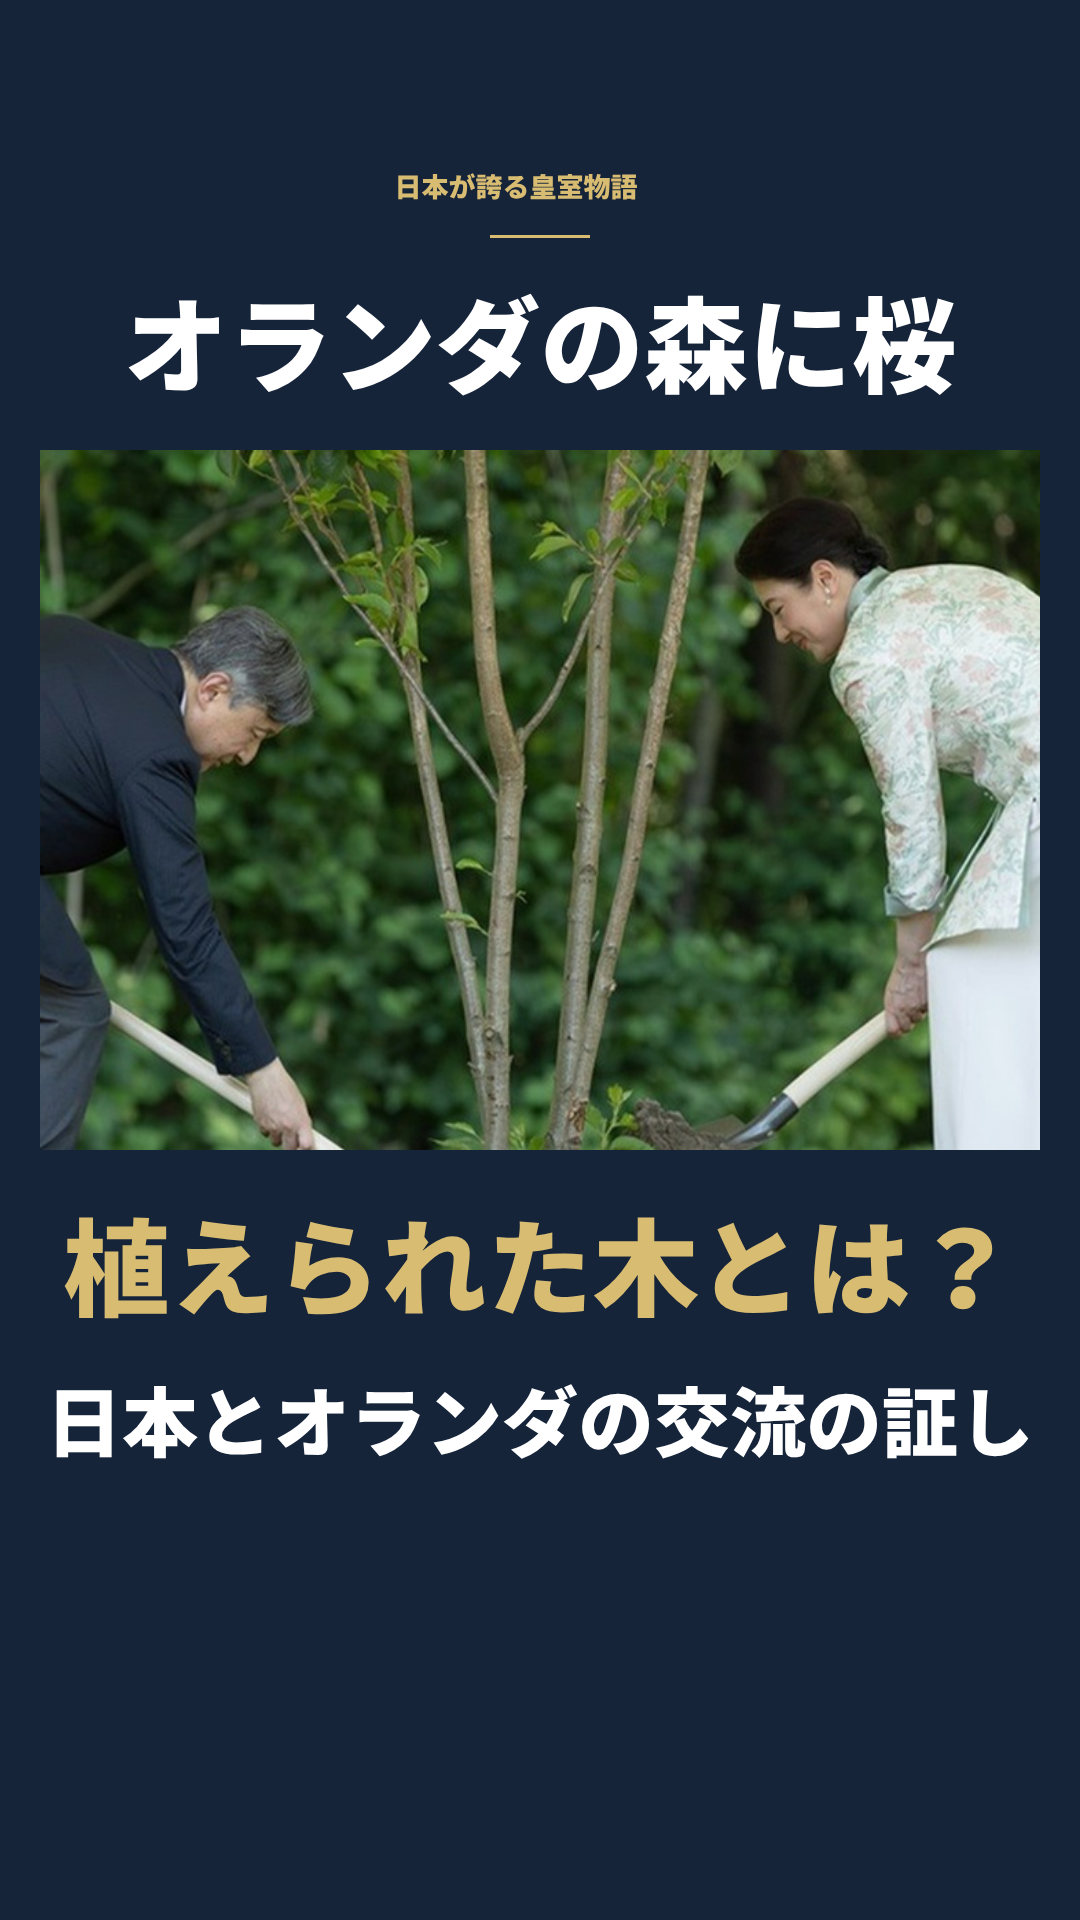
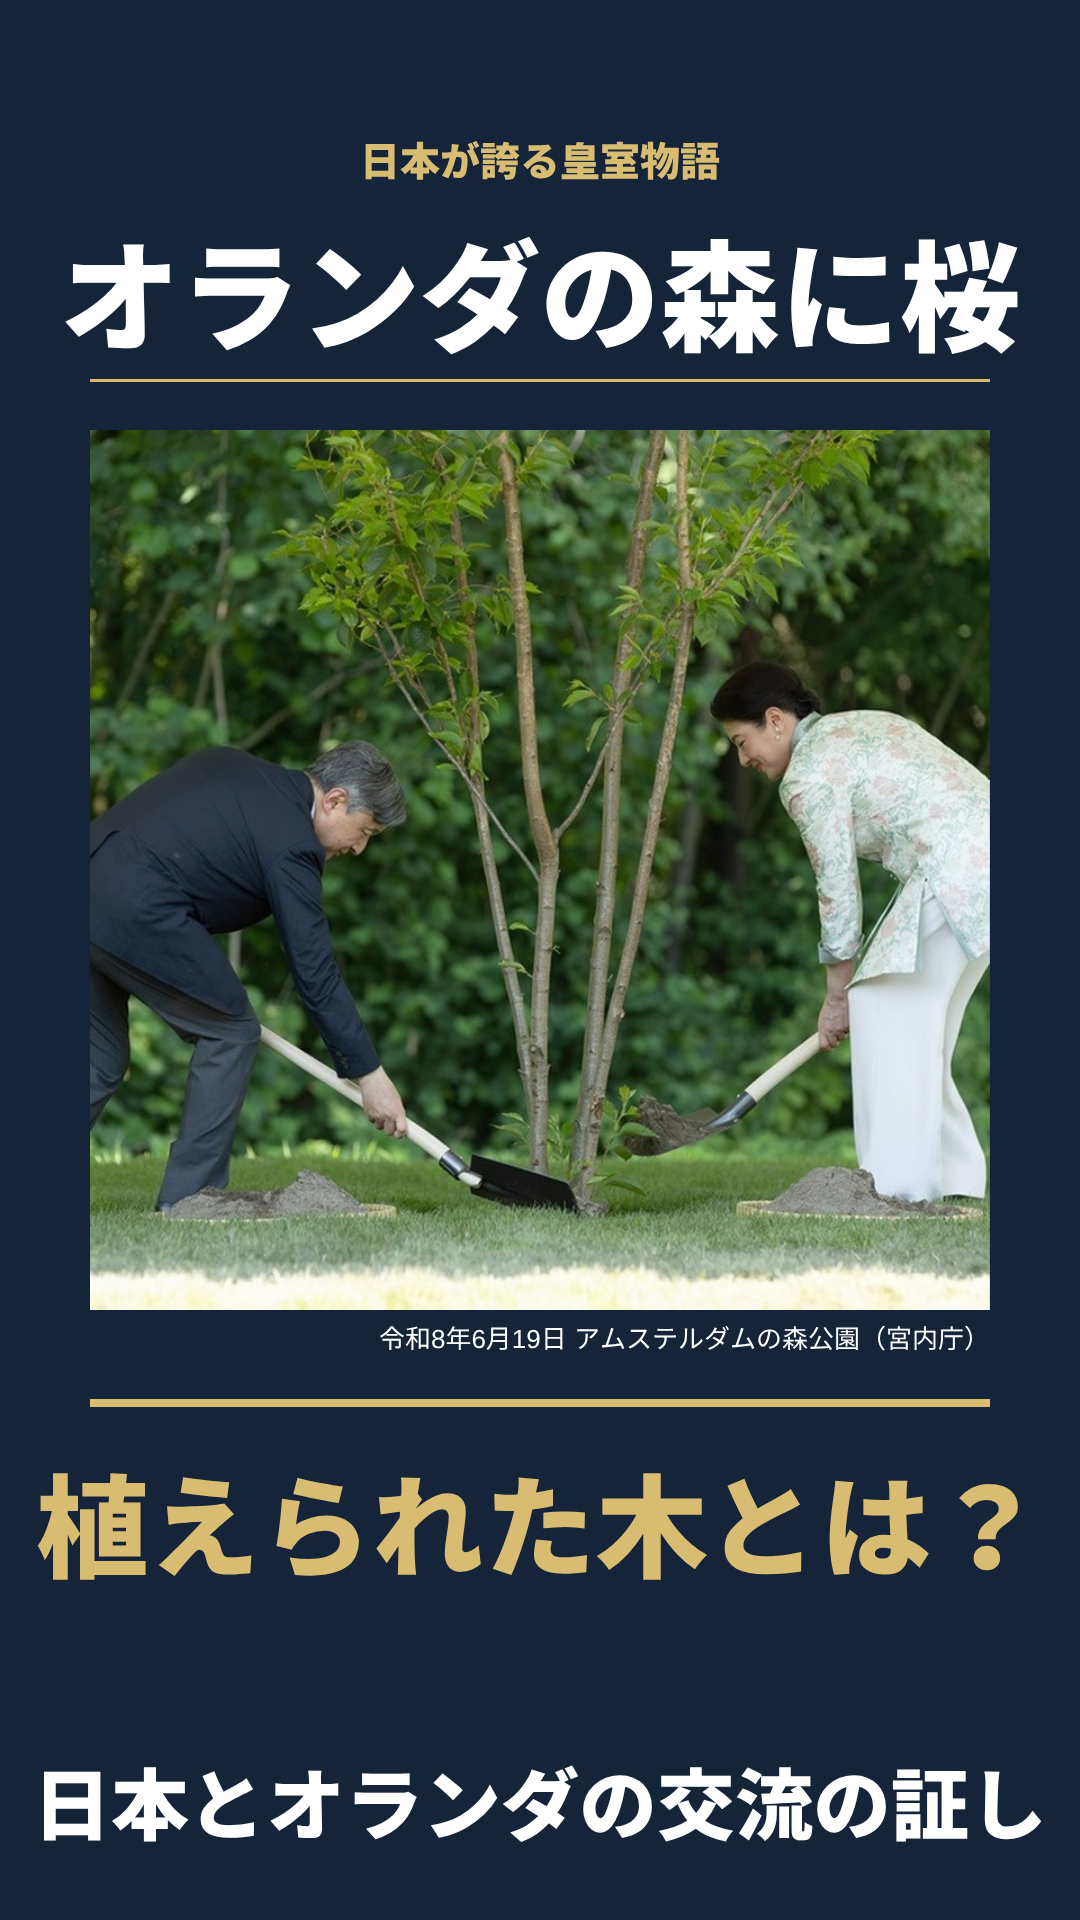
N2・N3: 表紙2パターン(A・B)
Claude-Session: https://claude.ai/code/session_01BJaPieHBuTRAAQkfULpzEX

diff --git a/projects/KB-20261123-03/frames_check.md b/projects/KB-20261123-03/frames_check.md
@@ -1,0 +1,33 @@
+# コマ点検 KB-20261123-03(縦型・54.17秒・15カット・2026-11-24「1本=1場面」版)
+
+点検したもの: `bin/kabu run frames` の sheet_1.jpg・sheet_2.jpg(0.5秒ごと。report.json は 1625コマ・issues 0件)、各カットの代表コマ16枚(動画から抜き出し)、scenes.json の match、output/shots.json、ledger.csv、focus.json、assets の md5、元写真(A008・A032・A034・A074・A105)。
+判定: **直しが2件(01-2・05-4)、要確認が4件。** ほかは問題なし。
+
+## 直しが必要
+1. **01-2(3.0〜6.8秒 A008)王妃陛下のお顔が右端で切れている。** 人物名は「天皇皇后両陛下・ベルギー国王王妃両陛下」だが、枠いっぱいの切り抜きと「右へパン」で、右端の王妃陛下がカットの間ずっと半分しか写らない(元写真は4人とも入っている)。第4章「全員が入らない時だけ全体を横幅いっぱいに置く」に当たる。
+   - 直し方: A019 と同じく写真全体を横幅いっぱいに置く。または focus を 0.55→0.52 にし、動きを「ゆっくり拡大(ごく小さく)」にして4人とも枠に入れる(4人の幅が写真の約87%あり余裕が少ないので、全体を置く方が確実)。
+2. **05-4(45.1〜49.5秒 A034)言葉と画像が合っていない。** ナレーションは「日本の塔と温室のどちらですか？」だが、写真は大使公邸での在留邦人代表ご接見(塔・温室・ラーケン宮のどれも写っていない別の行事)。第4-3章の①〜③のどれにも当たらない(③は「その行事の写真」)。
+   - 直し案A(勧める): 問いを写真に合わせる。05-4 に A029(庭園・日本の塔の前の4人)を移し、問いを「日本の塔」を含む言い方のままにする。空いた 03-1「庭園を歩かれました」には、6/25 のラーケン宮で別の写真が台帳にないため、台本係に写真探しを依頼(宮内庁 6/25 のページに別カットがあるか)。
+   - 直し案B: 05-4 を2カットに分け、塔と温室の別ファイルの写真(Commons・説明文確認済みのもの)を出す。ただし人物の割合が今の78.3%から70.1%に下がり、75%を割る。04-2(A115 庭園の芝生 3.1秒)を人物の写真に替えれば75.8%で足りる。
+   - 写真を替えない場合でも: 元写真には天皇陛下が左端に写っている。focus を 0.27→0.40、動きをパンなしにすれば両陛下とも枠に入り、人物名を台帳どおり「天皇皇后両陛下」に戻せる(一致の弱さは残る)。
+
+## 要確認
+- **01-1(0〜3.0秒 A032)** 天皇陛下が左端で、後ろ寄りの横顔。お顔は見えるが一部が枠にかかる。元写真でも左端なのでこれ以上は寄せられない。人物名「天皇皇后両陛下」は可。「お別れの日」に同じ6/25の別行事(ベルギー人ご接見)の写真で、撮影日・行事の表示あり。冒頭の一枚としては許容と見たが、04-1 の A030 と入れ替える手もある。
+- **05-3(40.3〜45.1秒 A018→A019)** 「お住まいの庭でのご散策は」に、6/23 晩餐会(室内・正装)の写真。場所(ラーケン宮=お住まい)は合うが「庭」「ご散策」は写っていない。撮影日の表示あり。A019 は10人の集合写真で両陛下のお顔が小さい(2.4秒)。
+- **03-3(20.2〜24.7秒 A103)・05-2(36.0〜40.3秒 A104)** 国王王妃両陛下も大きく写っているが、人物名は「天皇皇后両陛下」だけ(説明文に名前がないため付けていない、という台本係の判断)。05-2 は国王陛下がいちばん手前に大きく写る。04-1 と同じ行事なので付けるか、今のままにするか。また 05-2 は頬を寄せるご挨拶の瞬間で、皇后陛下のお顔が王妃陛下に隠れている(瞬間そのものの写真なので許容と見た)。
+- **点検シートの残り** output/frames/sheet_3.jpg は旧版(85秒版・06:58 作成)が残ったままで、report.json の sheets にも載っている。今の版は sheet_1・2 だけ。道具が古いシートを消していない(点検結果には影響なし)。
+
+## 問題なし
+- **言葉と画像の一致(ほかの場面)**: 01-2(国王ご夫妻と→4人の写真・6/23表示)、02-1(ラーケン宮→外観2枚)、03-1(庭園→庭園の4人。後ろに日本の塔)、03-2(日本の塔→塔の写真・2016年表示)、03-3(温室→温室の写真)、04-1(お別れのご挨拶→握手の瞬間)、04-2(記録にありません→庭園・人物なし)、05-1(国王ご夫妻と→4人・6/23表示)、05-2(お別れのご挨拶→ご挨拶の瞬間)、05-5(呼びかけ→ご到着の両陛下・6/20表示)。scenes.json の match と画面は一致。
+- **6/23の写真(01-2・05-1・05-3)**: 3場面とも左上に「2026年6月23日 …」が出ている。ナレーションは日付を言っていない場面で、その日の写真と誤解させる言い方はない。
+- **画像と文字の重なり**: なし。上(〜12%)に音声クレジット・人物名・撮影情報、写真の枠は12.4%〜58.4%、字幕の中心は約70%。全カットで写真に文字はかかっていない。A019 だけ全体を横幅いっぱいに置き、上下はぼかし背景。
+- **人物名・撮影日表示**: 人物の写る11カットすべてに人物名、15カットすべてに撮影日・行事(Commons の3枚は作者・ライセンスも)。台帳の説明文と一致。
+- **台帳の照合**: 使用15枚に「要目視」のままの写真はない(A103・A104 は目視確認済、ほかはキャプション)。`--check` は {"未登録の主役位置": [], "要目視のまま": []}。
+- **同じ写真の重複**: 15カットで15枚、再使用なし。md5 が同じ組は14組(A006=A077、A029=A102、A009=A083、A011=A082、A012=A085、A015=A089、A016=A088、A017=A087、A022=A094、A024=A096、A026=A100、A027=A099、A033=A107、A035=A110)。どの組も動画で使っているのは片方だけ(A006・A029)。A102・A077 は使われていない。
+- **赤・字幕**: 赤い文字はない。字幕は白+黒縁、はみ出しなし。改行は文節の切れ目で、語尾だけの行はない(「五重塔も、/ご覧になりました」「ラーケン宮です」は8字以内に縮めた表示で規定内)。
+- **崩れ・黒コマ・ちらつき**: なし(report.json 0件、目視でも切り替わり以外の乱れなし)。写真の枠の位置はカットの中で動かない。
+- **尺・切替**: 1枚の最長は 4.70秒(5秒以内)。人物の写真の割合 78.3%。最後は 52.2秒でナレーションが終わり、54.2秒まで字幕なしの余韻(黒コマではない)。
+
+## 補足
+- output/frames/frames_check.md は旧版(81.96秒・22カット)の点検メモのまま。今の版の結果はこのファイル。
+- focus.json・ledger.csv・scenes.json は変えていない。
